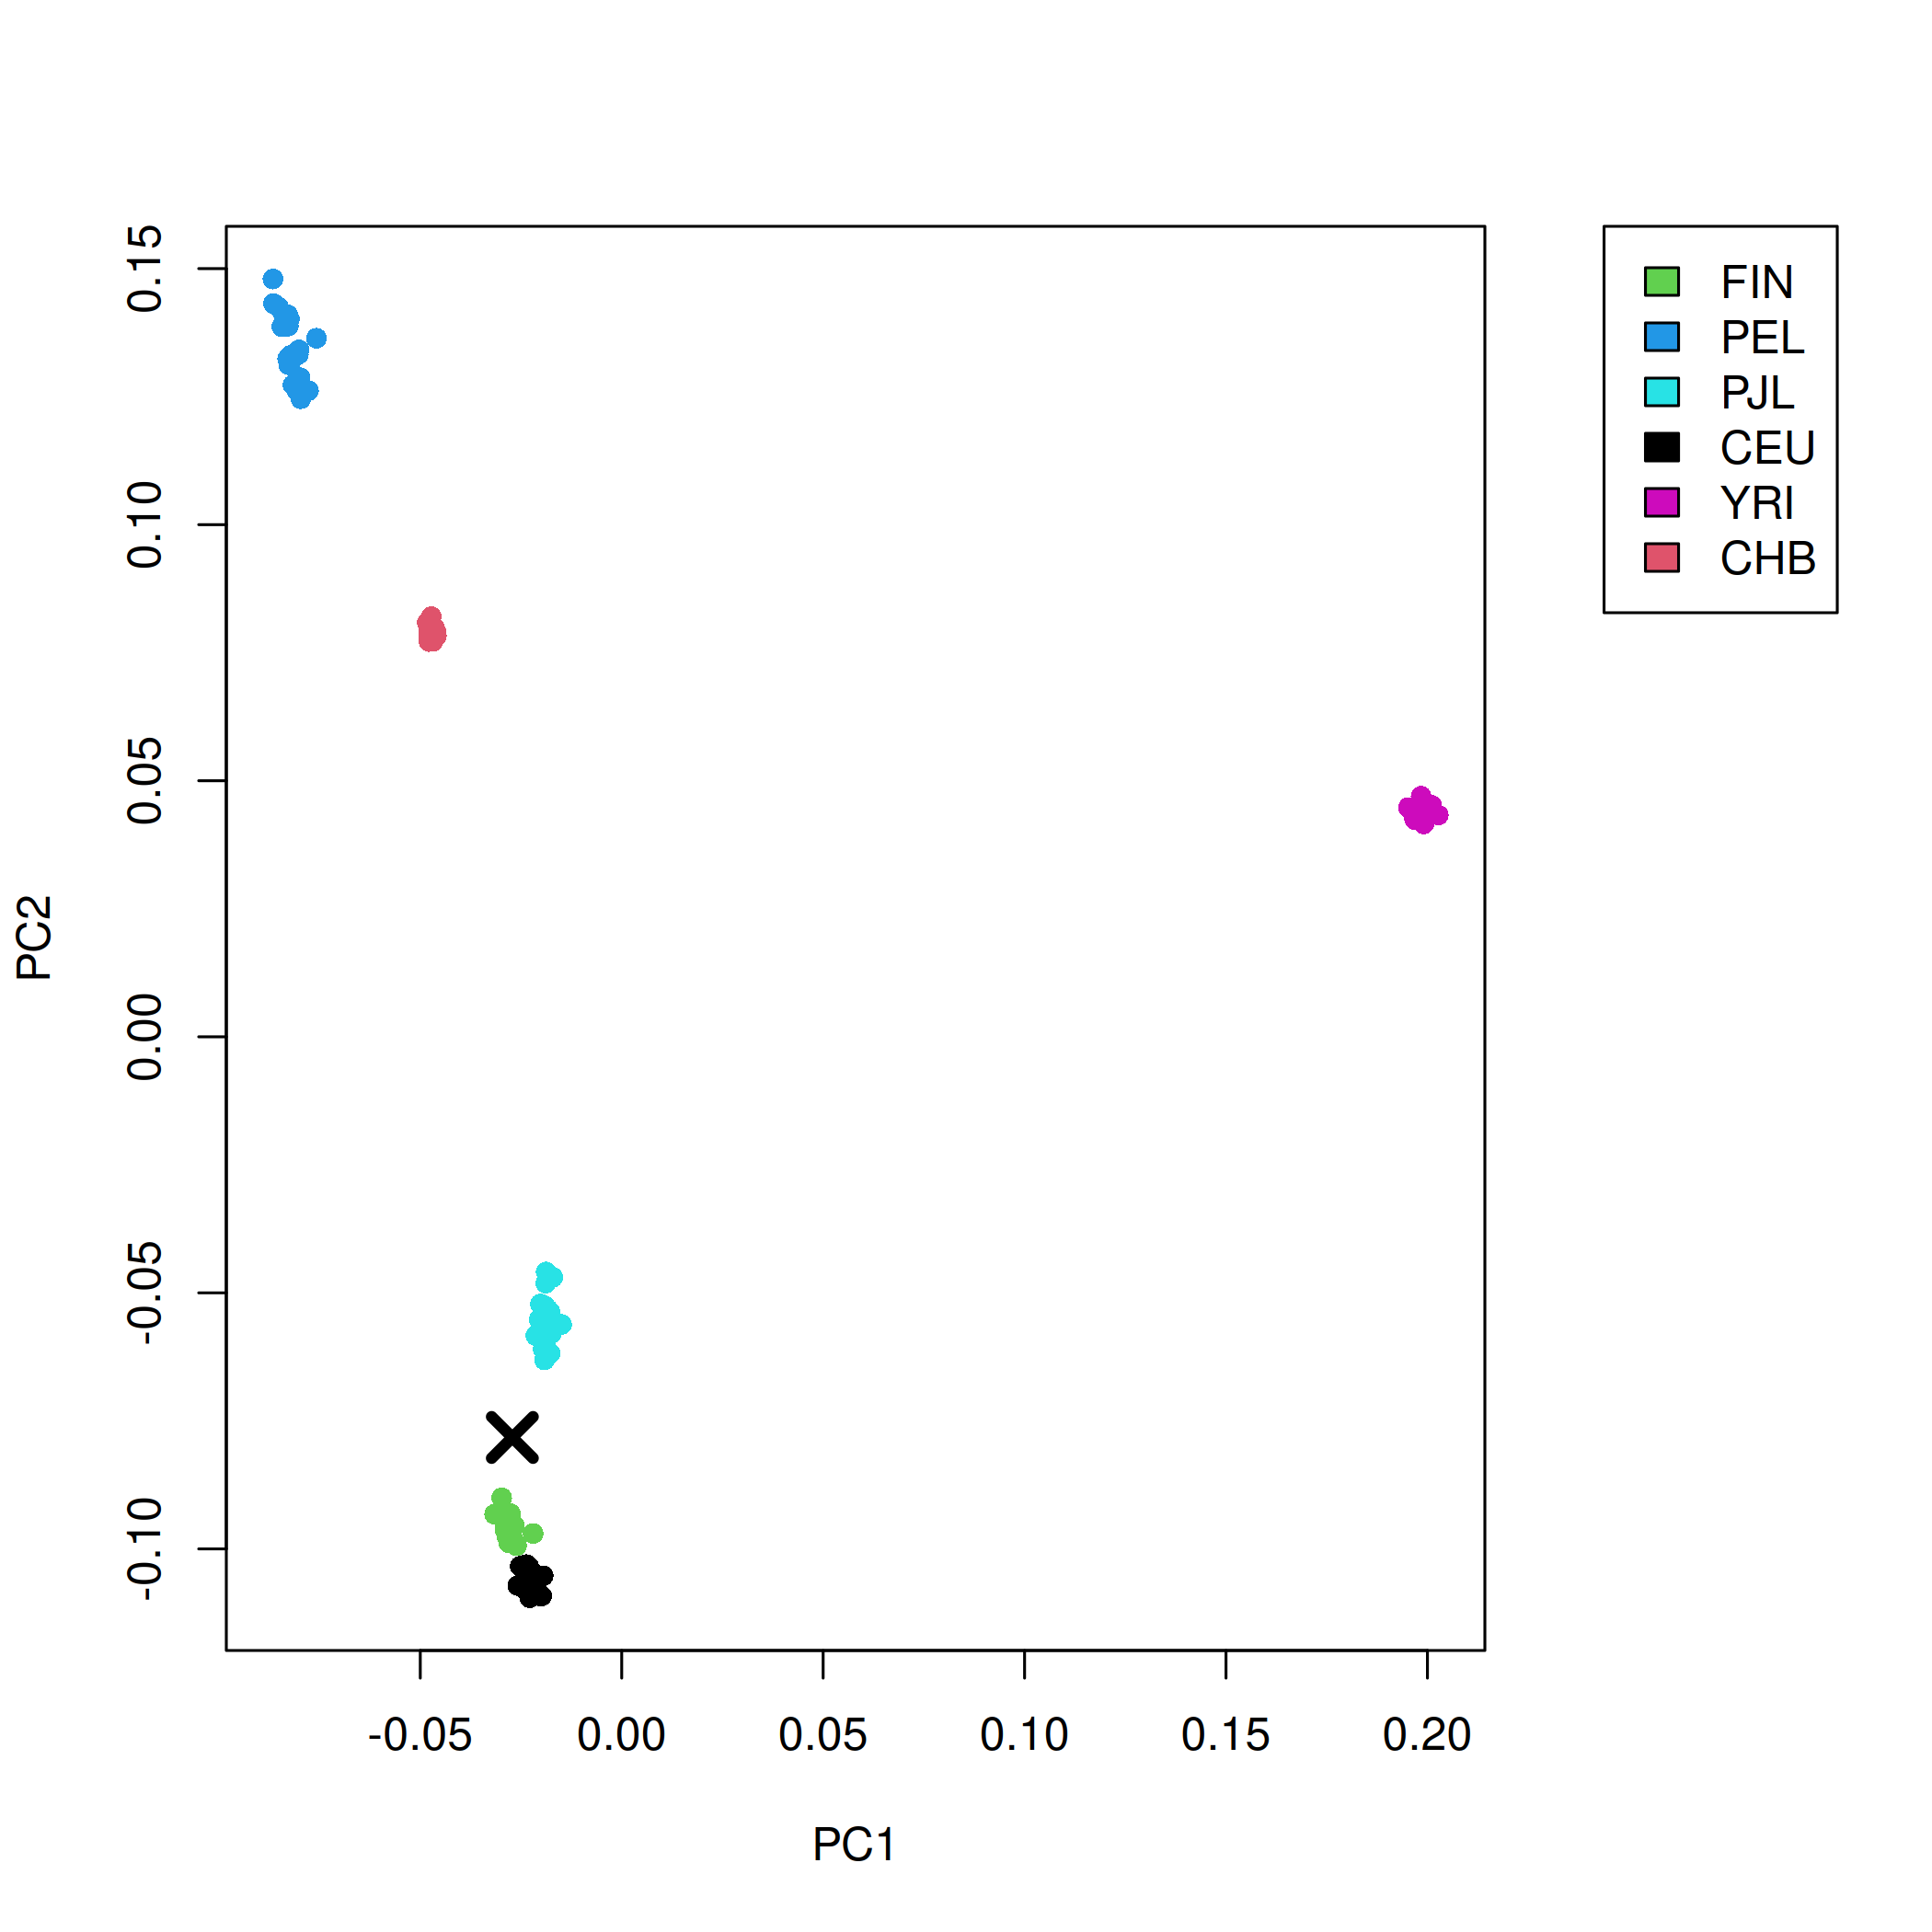
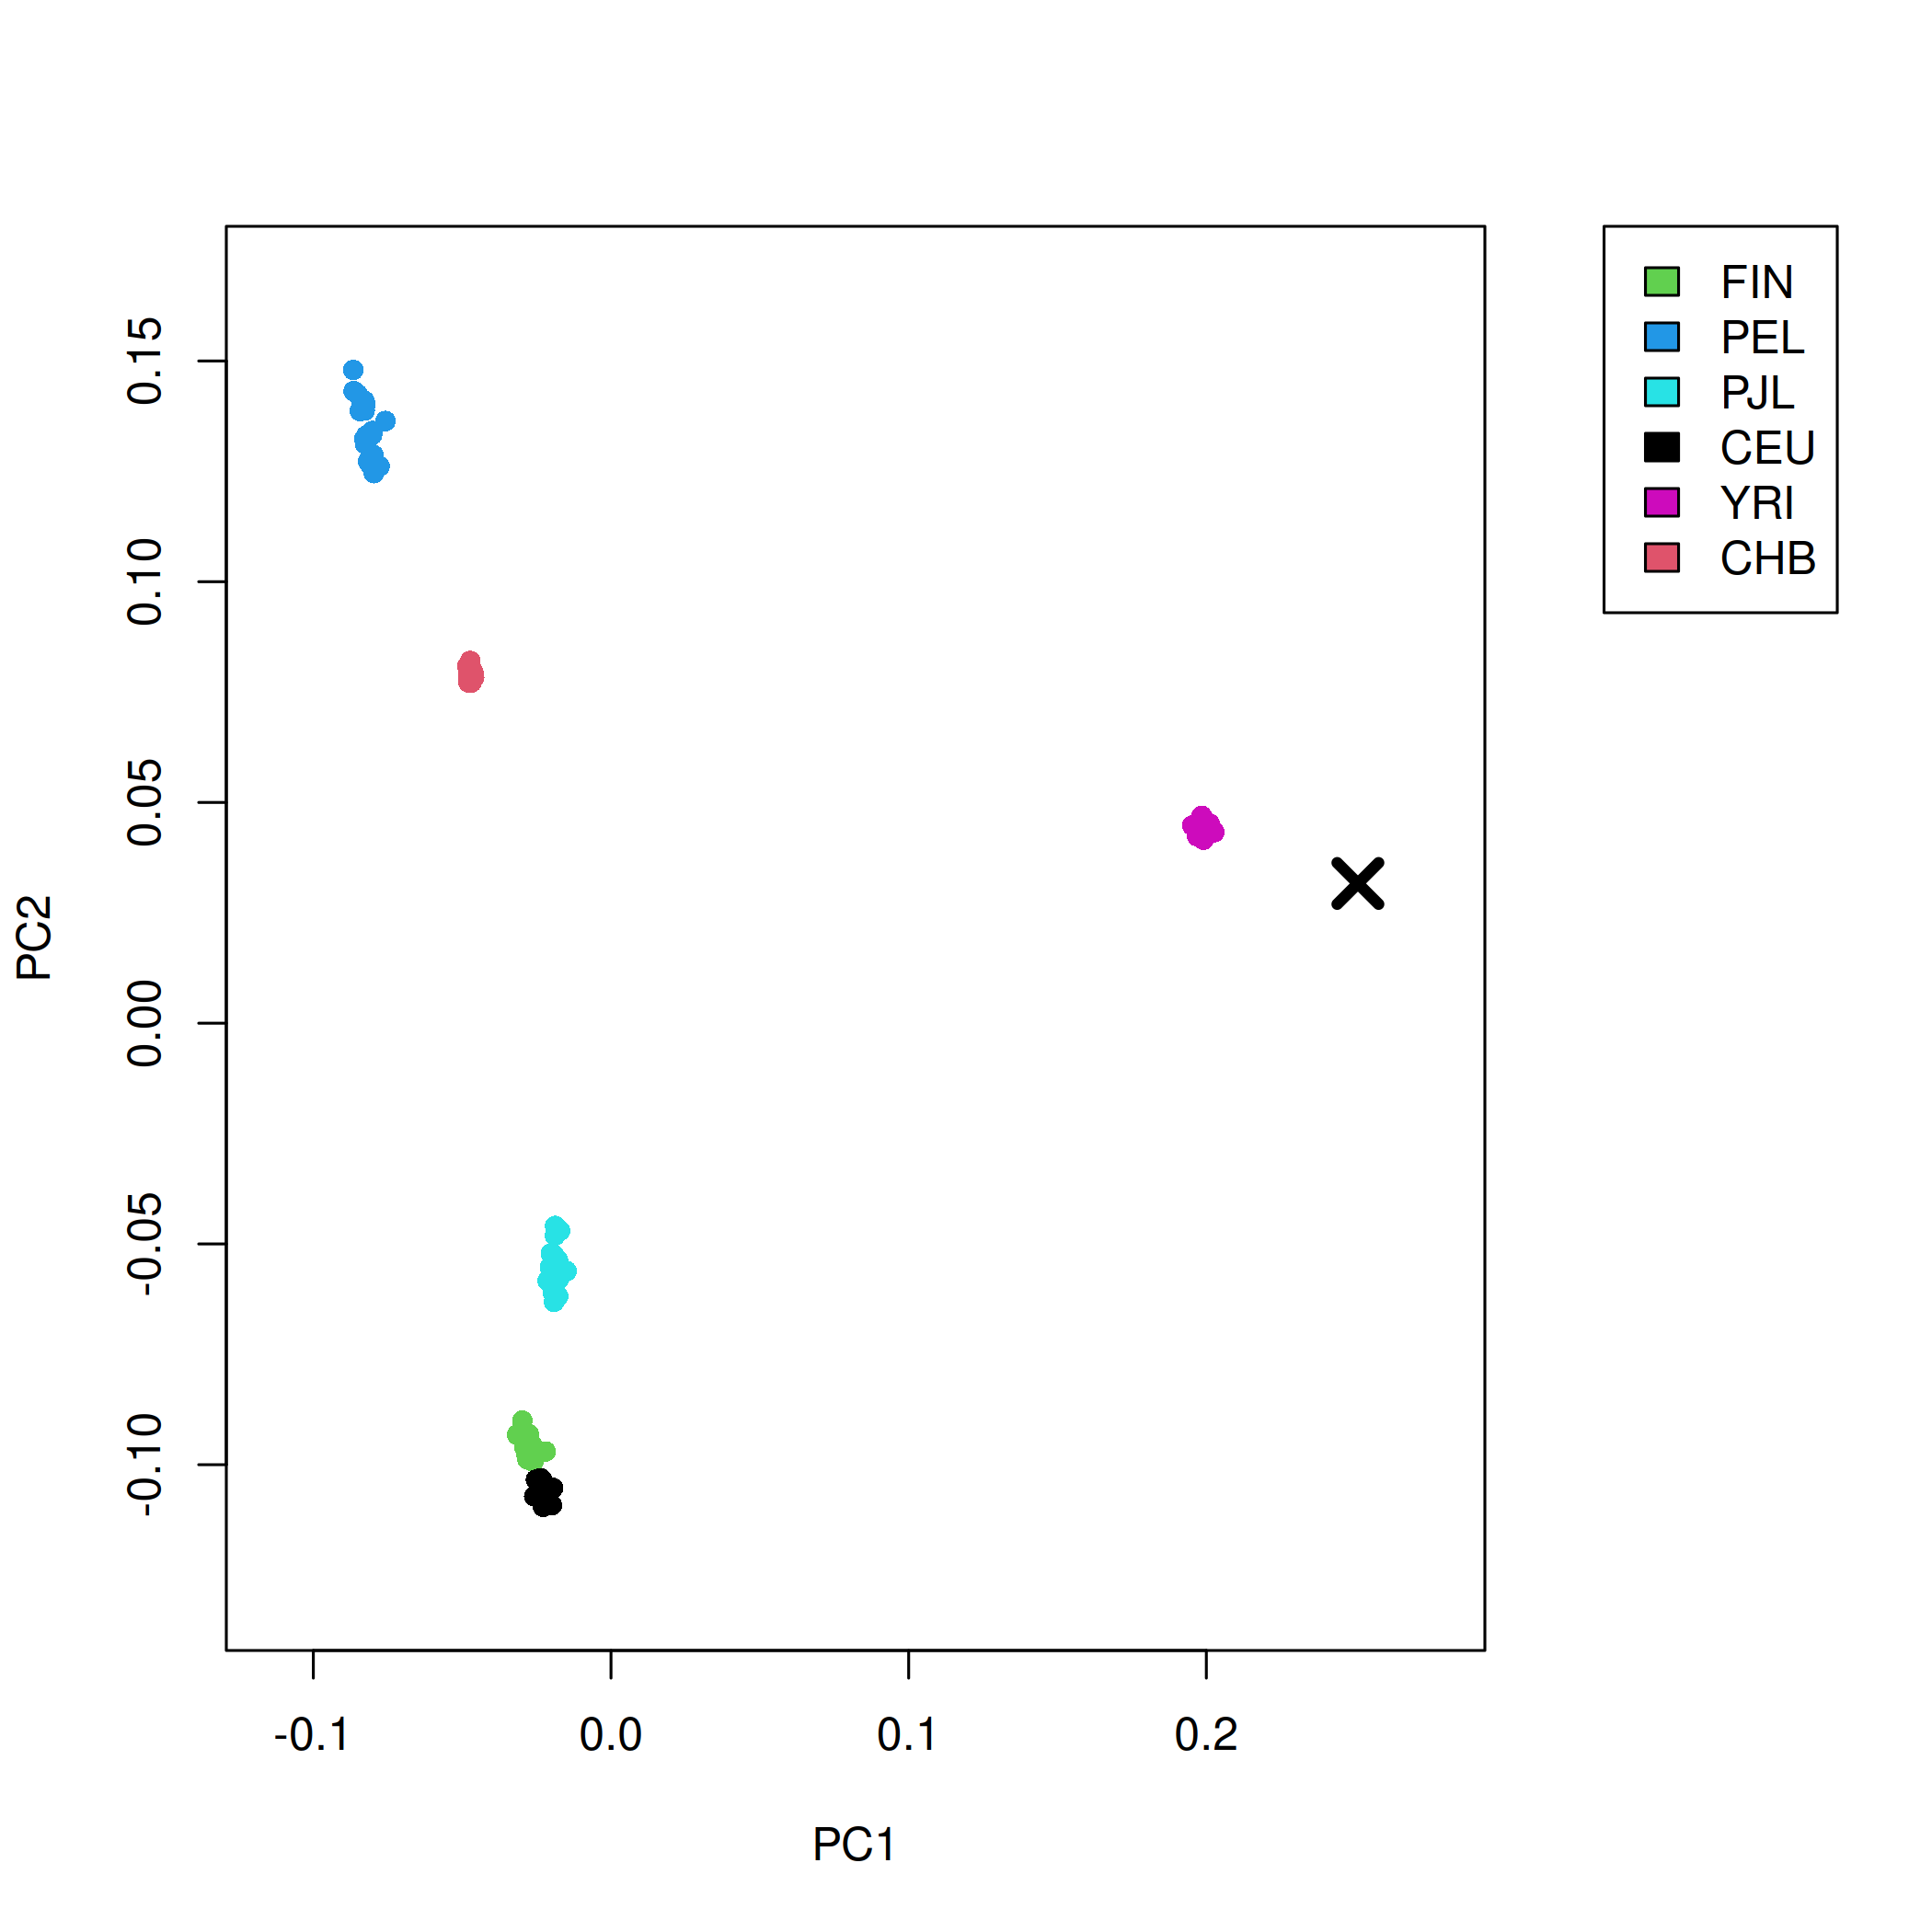
Refresh single-BAM tutorial for updated PCAone beagle projection

diff --git a/SINGLE_BAM_TUTORIAL.md b/SINGLE_BAM_TUTORIAL.md
@@ -1,14 +1,14 @@
 # Single-BAM Tutorial
 
-This tutorial starts from a single low-coverage BAM file, extracts genotype
-likelihoods at the sites in the 1000 Genomes reference panel with `ANGSD`, runs
-`fastNGSadmix`, and then uses bootstrap replicates to show uncertainty in the
-estimated admixture proportions.
+This tutorial starts from a single low-coverage BAM file and carries the sample
+through three analysis stages:
 
-The workflow is based on:
+- extract genotype likelihoods at the reference-panel sites with `ANGSD`
+- estimate admixture proportions with `fastNGSadmix`
+- project the sample onto a reference PCA with `PCAone`
 
-- the `fastNGSadmix` exercise from the PopGen course material
-- the 1000 Genomes reference-panel example on the project website
+The same sample is used throughout. The `ANGSD` output beagle file feeds both
+`fastNGSadmix` and the `PCAone --beagle` projection step.
 
 ## 1. Build `fastNGSadmix`
 
@@ -38,6 +38,9 @@ This tutorial uses:
 - reference frequencies: `data1000genomes/refPanel_1000genomesRefPanel.txt`
 - reference population counts: `data1000genomes/nInd_1000genomesRefPanel.txt`
 
+The 1000 Genomes reference panel in this repository contains 120 reference
+samples across six populations: `FIN`, `PEL`, `PJL`, `CEU`, `YRI`, and `CHB`.
+
 ## 3. Set the paths
 
 ```bash
@@ -51,7 +54,8 @@ OUT=results/NA12874_1000G
 
 ## 4. Extract genotype likelihoods with `ANGSD`
 
-Run `ANGSD` only on the SNPs present in the reference panel:
+Run `ANGSD` only on the SNPs present in the reference panel. This keeps the
+likelihoods aligned to the markers used by the reference frequencies:
 
 ```bash
 "$ANGSD" \
@@ -74,7 +78,7 @@ This writes:
 - `results/NA12874_1000G.depthSample`
 - `results/NA12874_1000G.depthGlobal`
 
-The key file for `fastNGSadmix` is `results/NA12874_1000G.beagle.gz`.
+The key file for the downstream analysis is `results/NA12874_1000G.beagle.gz`.
 
 <details>
 <summary>Verified command output</summary>
@@ -109,7 +113,9 @@ This writes:
 - `results/NA12874_1000G.qopt`
 - `results/NA12874_1000G.log`
 
-The main ancestry estimate is in `results/NA12874_1000G.qopt`.
+The main ancestry estimate is in `results/NA12874_1000G.qopt`. The header gives
+the reference-population order, and the data row gives the estimated ancestry
+proportions for the sample.
 
 For the tested example run, the estimated admixture proportions were:
 
@@ -118,14 +124,12 @@ FIN   PEL   PJL   CEU   YRI   CHB
 0.7436 0.0412 0.2152 0.0000 0.0000 0.0000
 ```
 
-To plot the point estimate:
+To plot the point estimate only:
 
 ```bash
 Rscript scripts/plot_single_bam_admix.R \
   results/NA12874_1000G.qopt \
-  results/NA12874_1000G_boot100.qopt \
-  tutorial_figures/NA12874_1000G_admix.png \
-  tutorial_figures/NA12874_1000G_bootstrap.png
+  tutorial_figures/NA12874_1000G_admix.png
 ```
 
 Point estimate:
@@ -155,8 +159,9 @@ Estimated  Q = 0.743590 0.041179 0.215201 0.000010 0.000010 0.000010 best like -
 
 ## 6. Quantify uncertainty with bootstrap
 
-The course exercise recommends bootstrap replicates when working with a single
-sample, especially for low-coverage data. A simple run is:
+Bootstrap replicates are useful here because a single low-coverage sample can
+have substantial uncertainty even when the point estimate looks sharp. A simple
+run is:
 
 ```bash
 ./fastNGSadmix \
@@ -174,13 +179,22 @@ This writes a new result set, including:
 - `results/NA12874_1000G_boot100.log`
 
 The bootstrap run gives replicate-based uncertainty around the admixture
-proportions. Inspect the log together with the `.qopt` output when comparing
-the single-run estimate and the bootstrap-supported result.
+proportions. In `results/NA12874_1000G_boot100.qopt`, the first row is the main
+estimate and the remaining 100 rows are the bootstrap replicates.
 
-The bootstrap file has one point-estimate row followed by 100 bootstrap rows.
+To plot the estimate together with the bootstrap intervals:
 
-The same plotting command above also writes the bootstrap summary figure:
+```bash
+Rscript scripts/plot_single_bam_admix.R \
+  results/NA12874_1000G.qopt \
+  results/NA12874_1000G_boot100.qopt \
+  tutorial_figures/NA12874_1000G_admix.png \
+  tutorial_figures/NA12874_1000G_bootstrap.png
+```
 
+This writes:
+
+- `tutorial_figures/NA12874_1000G_admix.png`
 - `tutorial_figures/NA12874_1000G_bootstrap.png`
 
 Bootstrap uncertainty summary:
@@ -209,7 +223,8 @@ FIRST row of .qopt file is BEST estimated Q, rest are nBoot bootstrapping Qs
 This step requires a `PCAone` binary with `--beagle` support available as
 `./PCAone`.
 
-Run PCA on the same 1000 Genomes reference panel used above:
+Run PCA on the same 1000 Genomes reference panel used above. This defines the
+PC axes that the sample will be projected onto:
 
 ```bash
 mkdir -p results/pcaone_1000g
@@ -229,19 +244,21 @@ This writes:
 <summary>Verified command output</summary>
 
 ```text
-[25/03/2026-08:30:32] start parsing PLINK format
-[25/03/2026-08:30:32] N (# samples): 120, M (# SNPs): 6676750
+[25/03/2026-09:27:28] start parsing PLINK format
+[25/03/2026-09:27:28] N (# samples): 120, M (# SNPs): 6676750
 ...
-[25/03/2026-08:32:19] stops at epoch =  7
-[25/03/2026-08:32:20] save matched sites in .mbim file and permutation mode is  1
-[25/03/2026-08:32:33] eigen vectors and values saved
+[25/03/2026-09:29:16] stops at epoch =  7
+[25/03/2026-09:29:17] save matched sites in .mbim file and permutation mode is  1
+[25/03/2026-09:29:30] eigen vectors and values saved
 ```
 
 </details>
 
 ## 8. Project the BAM-derived beagle file with `PCAone`
 
-Project the exact beagle file produced by `ANGSD` in step 4:
+Project the exact beagle file produced by `ANGSD` in step 4. With the updated
+`PCAone`, this now uses genotype likelihoods directly instead of requiring a
+separate PLINK version of the sample:
 
 ```bash
 ./PCAone \
@@ -258,9 +275,9 @@ This writes:
 - `results/pcaone_1000g/NA12874_from_bam.sigvals`
 - `results/pcaone_1000g/NA12874_from_bam.log`
 
-For the tested run, the projection summary was:
+For the tested run with the updated `PCAone`, the projection summary was:
 
-- overlap: `5181`
+- overlap: `4578`
 - flipped: `0`
 - skipped: `0`
 
@@ -268,17 +285,18 @@ Projected coordinates start with:
 
 ```text
 PC1      PC2      PC3
--0.0271  -0.0782  -0.0357
+0.2509   0.0317   0.1573
 ```
 
 <details>
 <summary>Verified command output</summary>
 
 ```text
-[25/03/2026-08:40:43] start parsing BEAGLE format
-[25/03/2026-08:40:43] N (# samples):  1, M (# SNPs): 5181
-[25/03/2026-08:40:54] projection overlap = 5181, flipped =  0, skipped =  0
-[25/03/2026-08:41:02] eigen vectors and values saved
+[25/03/2026-09:29:50] start parsing BEAGLE format
+[25/03/2026-09:29:50] N (# samples):  1, M (# SNPs): 4578
+[25/03/2026-09:30:01] projection overlap = 4578, flipped =  0, skipped =  0
+[25/03/2026-09:30:09] GL projection iter = 17, diff = 0.000009
+[25/03/2026-09:30:09] eigen vectors and values saved
 ```
 
 </details>
@@ -300,7 +318,7 @@ This writes:
 
 - `tutorial_figures/NA12874_from_bam_pcaone_projection.png`
 
-Projected sample on the 1000G PCA:
+Projected sample on the 1000G PCA. The black `X` marks the BAM-derived sample:
 
 ![PCAone projection for NA12874 from BAM-derived beagle](tutorial_figures/NA12874_from_bam_pcaone_projection.png)
 
@@ -320,7 +338,7 @@ After the workflow finishes, check:
 
 ## 11. Notes
 
-- The BAM-driven workflow here is for genotype likelihoods and admixture
-  estimation with `fastNGSadmix`, plus direct PCA projection from the resulting
-  beagle file when using a `PCAone` build that supports `--beagle`.
+- The BAM-driven workflow here uses genotype likelihoods twice: first for
+  admixture estimation in `fastNGSadmix`, and then for direct projection in
+  `PCAone --beagle`.
 - The exact runtime depends on the machine, `ANGSD` build, and I/O speed.